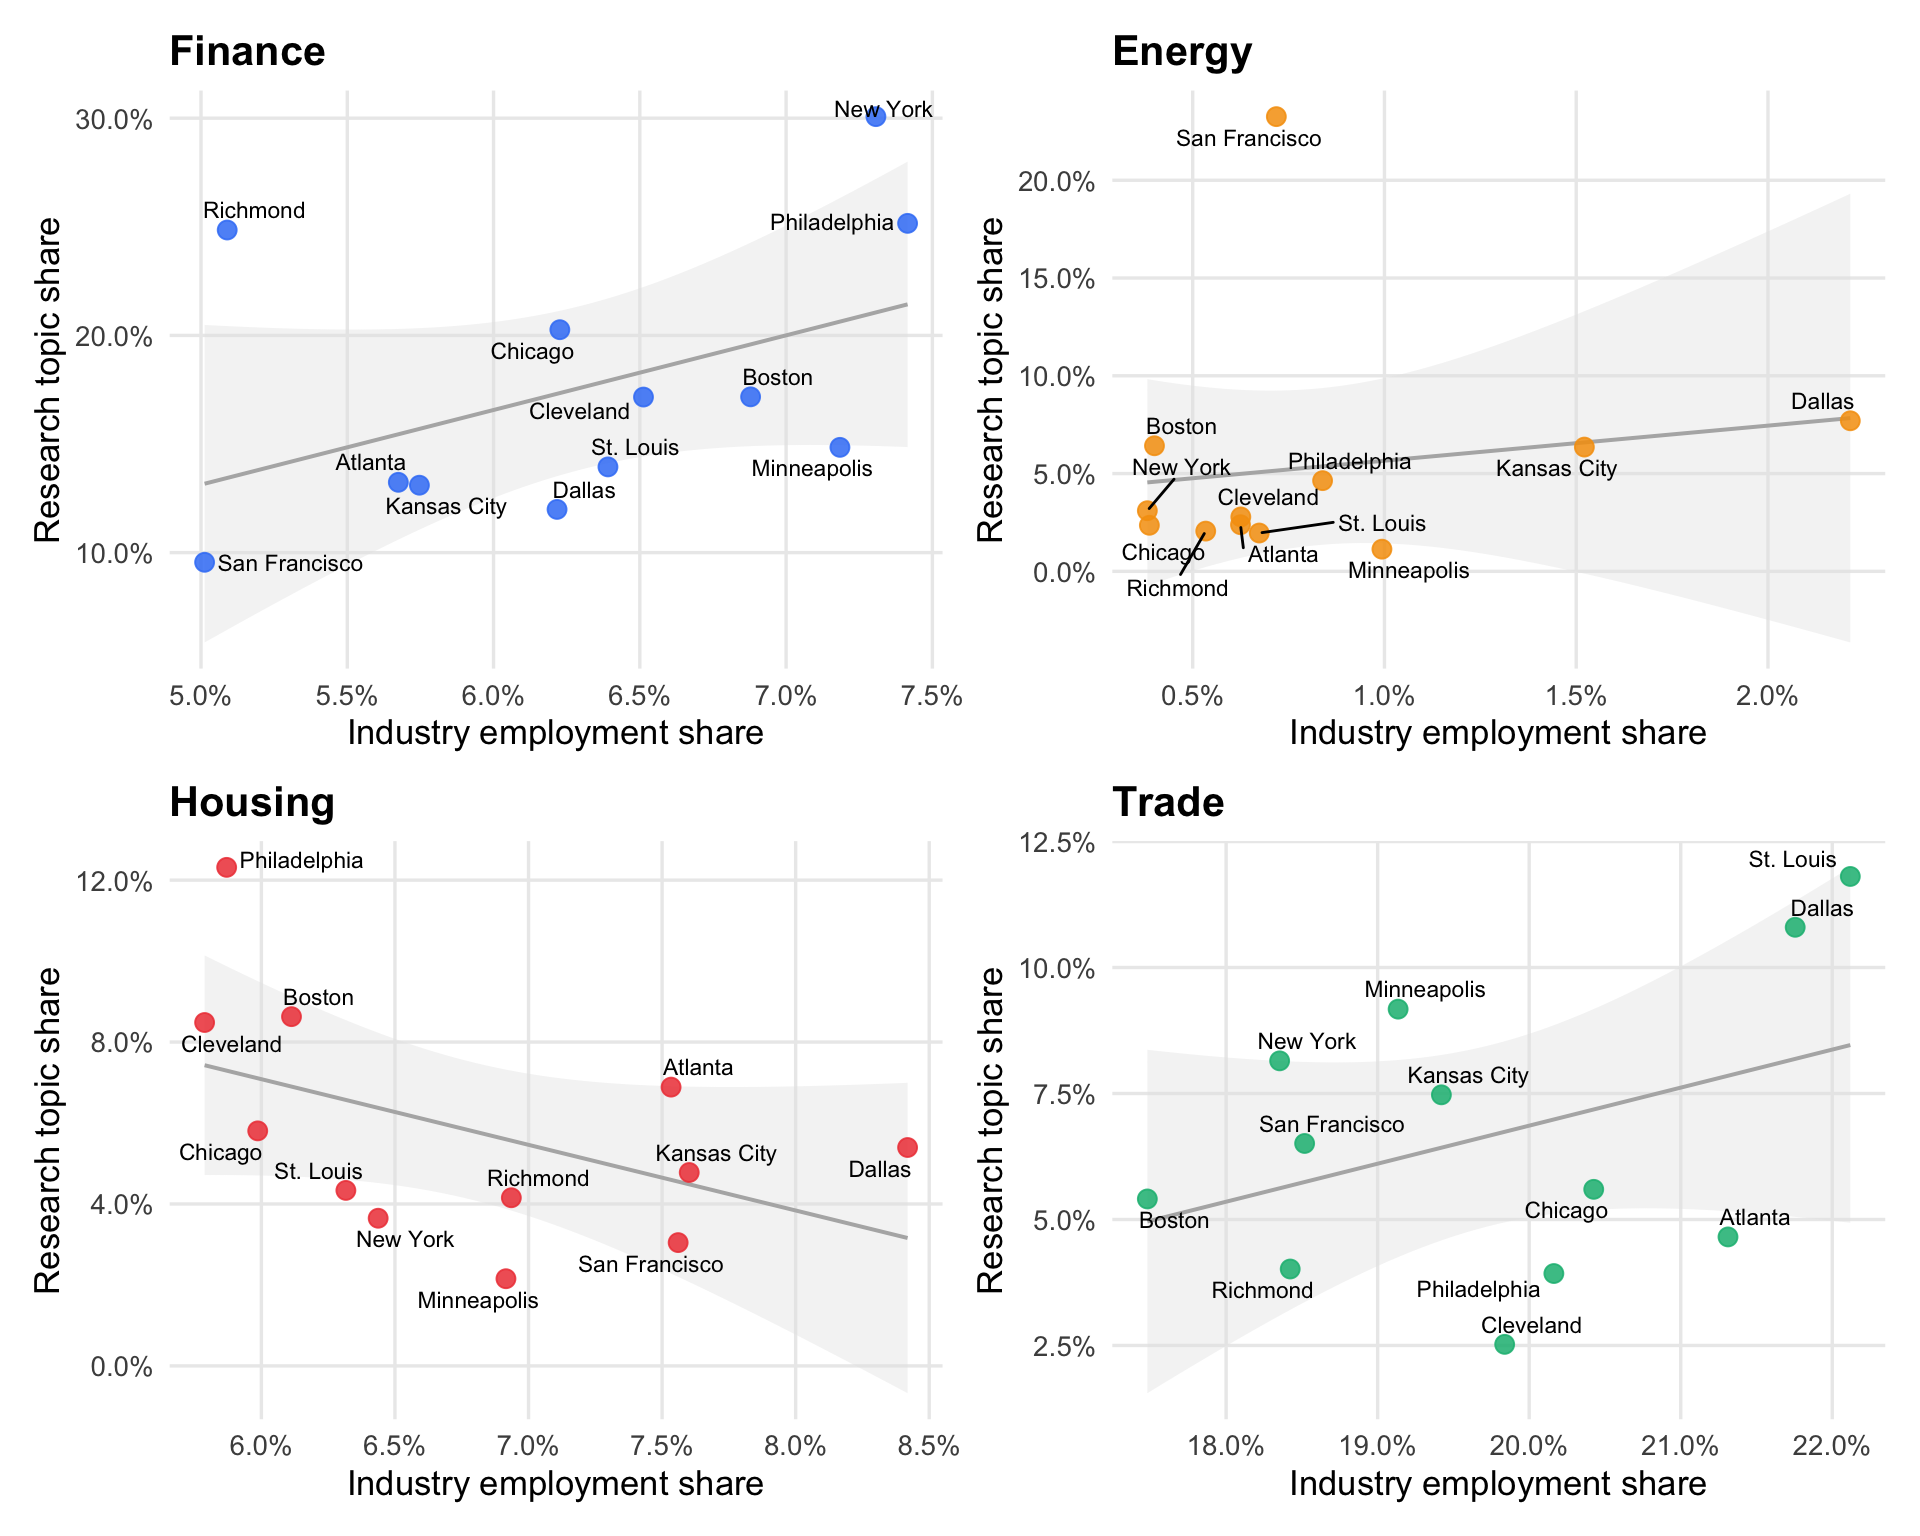
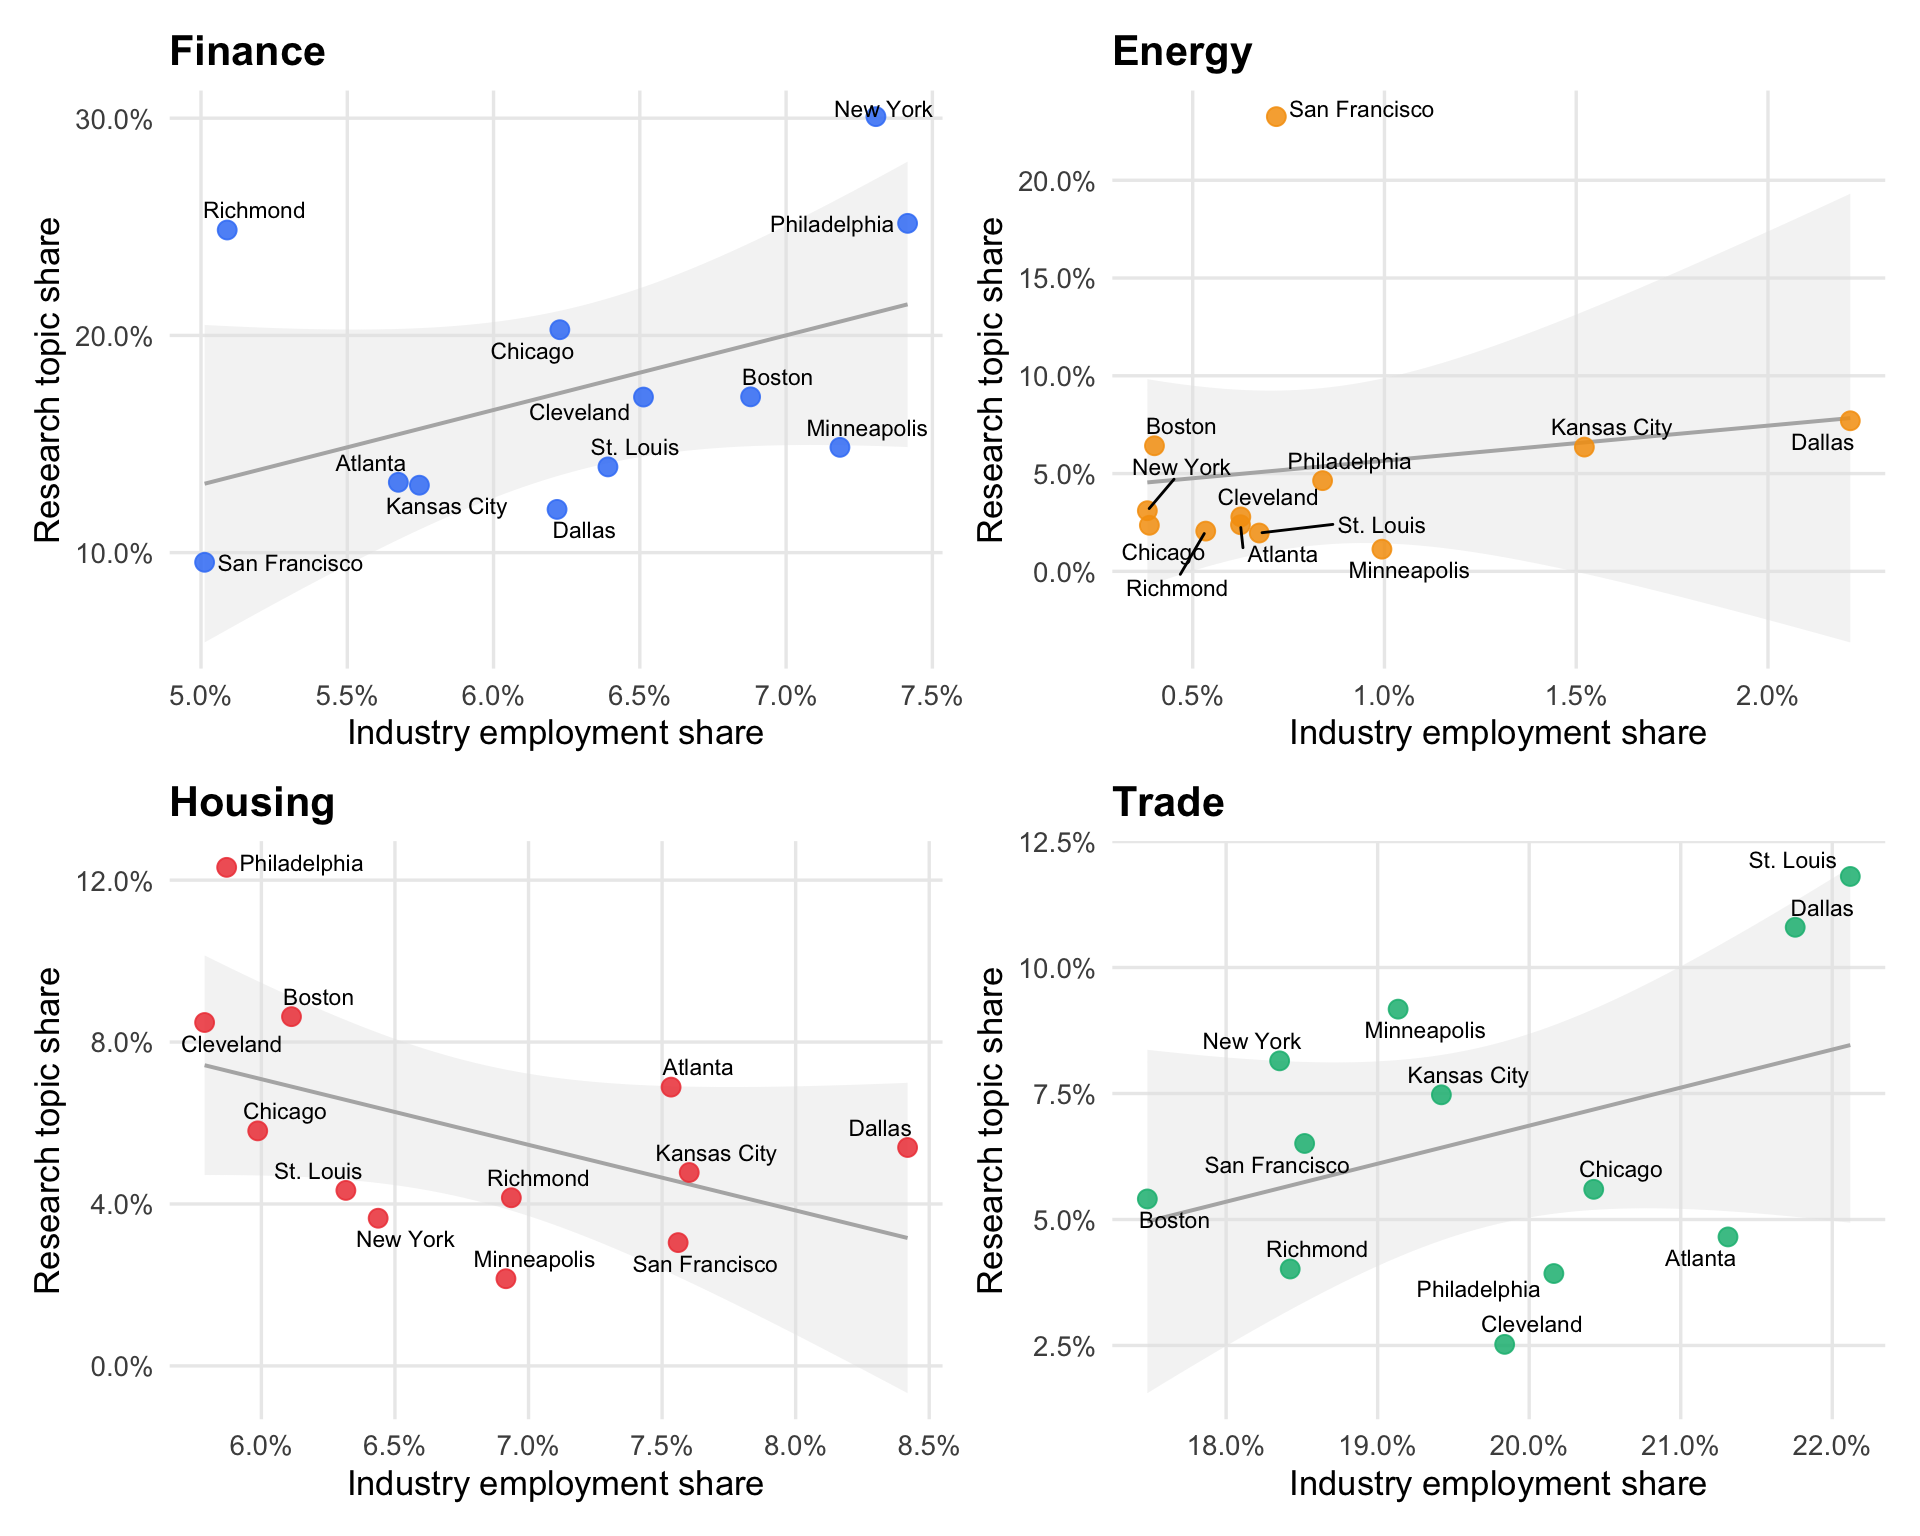
Render updated QMDs to docs/

diff --git a/docs/index.html b/docs/index.html
@@ -7,7 +7,7 @@
 <meta name="viewport" content="width=device-width, initial-scale=1.0, user-scalable=yes">
 
 <meta name="author" content="Benedict Leonardi">
-<meta name="dcterms.date" content="2026-06-09">
+<meta name="dcterms.date" content="2026-06-10">
 
 <title>Do Federal Reserve Banks Research What Their Districts Produce? – Fed Research Districts</title>
 <style>
@@ -154,7 +154,7 @@ pre > code.sourceCode > span > a:first-child::before { text-decoration: underlin
     <div>
     <div class="quarto-title-meta-heading">Published</div>
     <div class="quarto-title-meta-contents">
-      <p class="date">June 9, 2026</p>
+      <p class="date">June 10, 2026</p>
     </div>
   </div>
   